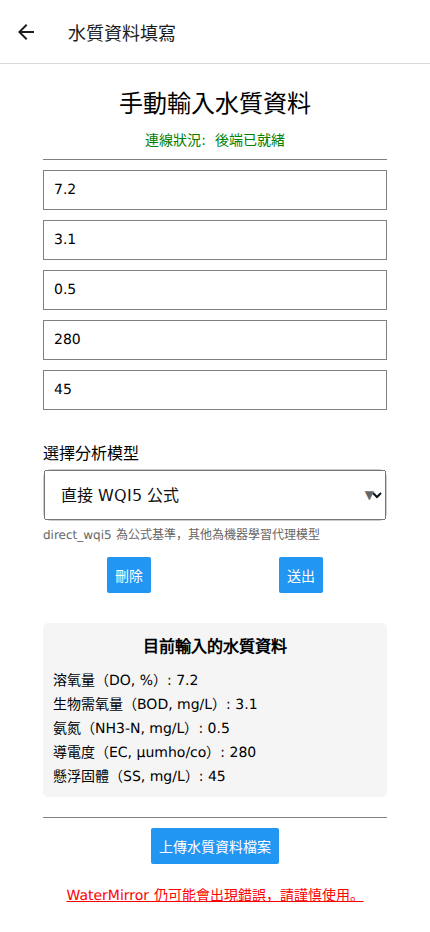
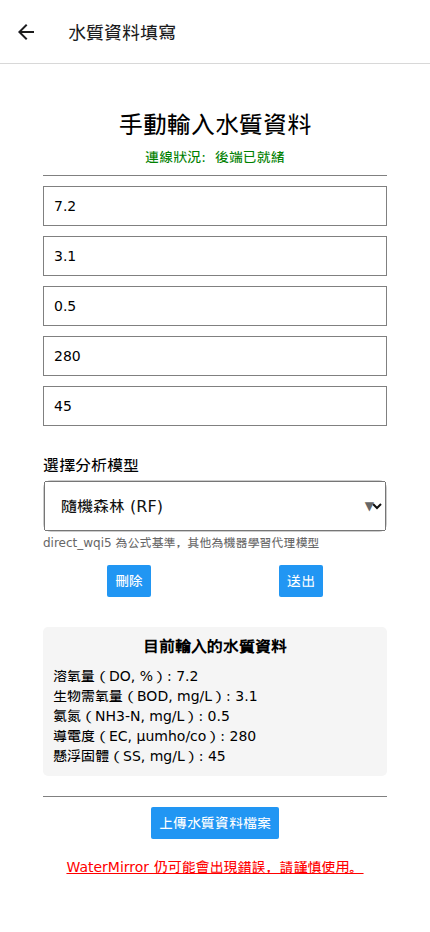
docs: expand WaterMirror README screenshots

diff --git a/README.md b/README.md
@@ -32,11 +32,15 @@ WaterMirror depends on the API contract exposed by [WQSurrogateModels](https://g
 
 ## Screenshots
 
-These screenshots show the actual Expo Web interface at a portrait phone viewport. They use illustrative sample measurements (`DO 7.2`, `BOD 3.1`, `NH3-N 0.5`, `EC 280`, `SS 45`). The green backend-ready indicator and assessment response are simulated locally (WQI5 89.54, `Excellent`, 80th percentile); they do not show a live backend assessment.
+These screenshots show the actual Expo Web interface at a portrait phone viewport, from the home screen through model selection, manual input, and the assessment report. The model menu shows the available choices; the example assessment uses **Random Forest (RF)**. Measurements (`DO 7.2`, `BOD 3.1`, `NH3-N 0.5`, `EC 280`, `SS 45`), backend-ready status, assessment response (WQI5 89.54, `Excellent`), percentile, and chart data are simulated locally for illustration and do not come from a live backend.
 
-| Manual input | Assessment result |
+| Home | Model choices |
 | :---: | :---: |
-| <img src="docs/screenshots/manual-input.png" width="320" alt="WaterMirror manual input form with illustrative sample measurements" /> | <img src="docs/screenshots/assessment-result.png" width="320" alt="WaterMirror assessment result with illustrative sample data" /> |
+| <img src="docs/screenshots/home.png" width="300" alt="WaterMirror home screen" /> | <img src="docs/screenshots/model-options.png" width="300" alt="WaterMirror model picker listing the available assessment models" /> |
+
+| Manual input · Random Forest (RF) | Assessment result · Random Forest (RF) |
+| :---: | :---: |
+| <img src="docs/screenshots/manual-input.png" width="300" alt="WaterMirror manual input form with illustrative sample measurements and Random Forest selected" /> | <img src="docs/screenshots/assessment-result.png" width="300" alt="WaterMirror illustrative assessment result showing Random Forest" /> |
 
 ## Prerequisites
 
